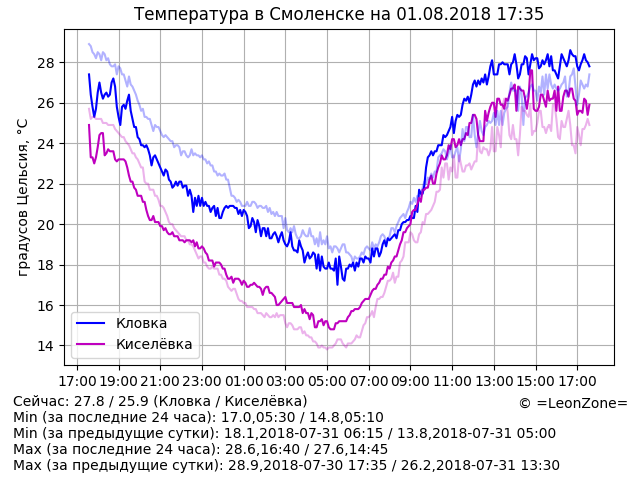
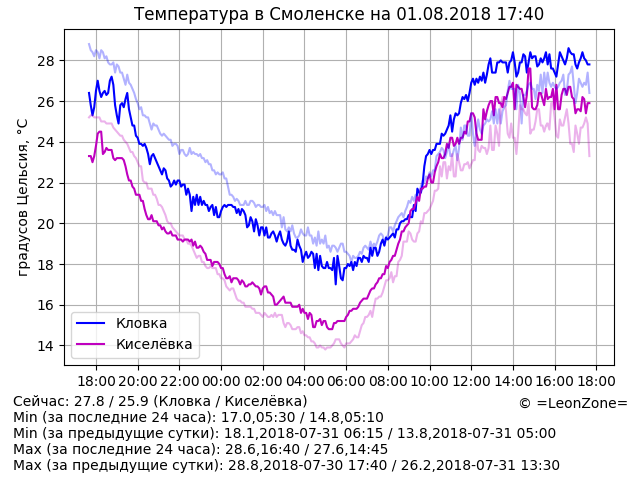
Update data

diff --git a/index.html b/index.html
@@ -18,7 +18,7 @@
 Min (за последние 24 часа): 17.0,05:30 / 14.8,05:10
 Min (за предыдущие сутки): 18.1,2018-07-31 06:15 / 13.8,2018-07-31 05:00
 Max (за последние 24 часа): 28.6,16:40 / 27.6,14:45
-Max (за предыдущие сутки): 28.9,2018-07-30 17:35 / 26.2,2018-07-31 13:30
+Max (за предыдущие сутки): 28.8,2018-07-30 17:40 / 26.2,2018-07-31 13:30
 <!-- /textinfo -->
 	<footer hidden="true">© =LeonZone=</footer>
 </body>
